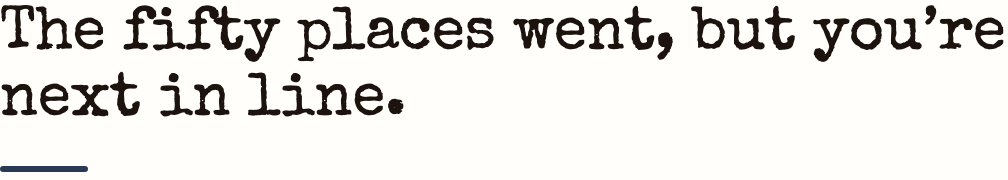
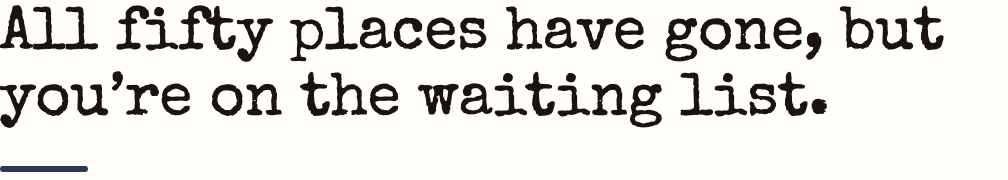
Privacy page v1: the copy addendum (waiting-list wording, the AI lead)
- Confirm email panel: "…and I'll tell you straight." → "…and I'll let you
  know."
- Waiting-list email: subject "You're on the founding writers' waiting
  list"; heading (and heading-waiting.png, regenerated, with its alt) "All
  fifty places have gone, but you're on the waiting list."; last line
  "Sorry we couldn't fit you in this time, and thank you for signing up."
- Welcome email preheader: "Your founding writer pass is inside."
- /welcome, waiting state, Nick's note first sentence: "Sorry we couldn't
  fit you in this time, and thank you for signing up." (the rest kept).
- /privacy §4 callout lead: "We only use AI for admin." (the rest kept).
- Swept the emails, /welcome and /privacy for "tell you straight", "wanting
  in", "first in line" and "next in line": every occurrence was one of the
  above. /welcome still says "first in line" for reserve No. 1 ("So close.
  You're first in line." / "First in line, in the order writers
  confirmed."): that is the writer's stored position, worded as the
  welcome brief specified, and is left. "Next in line" in the Contact
  list's next-step panel is in the app, not these pages, and is left.
- Copy locks updated (EM-1, the images-off order, W4, PRIV-3, WEL-6); the
  updated unit locks fail on 6311e4ef in the five places that changed.

Changed region(s): [[0.0, 0.0278, 1.0, 0.3611], [0.0, 0.3889, 0.8304, 0.7222]]

diff --git a/functions/src/foundingEmails.test.ts b/functions/src/foundingEmails.test.ts
@@ -45,7 +45,7 @@ const EXPECT = {
       "Thanks for putting your name down as a QueryHawk founding writer. There's just one thing left to do.",
       "Confirm my place",
       "This link works for 48 hours.",
-      "Your place isn't held until you click. There are fifty founding places and they go in the order people confirm. If the last one goes while this sits in your inbox, you'll go on the waiting list instead, and I'll tell you straight.",
+      "Your place isn't held until you click. There are fifty founding places and they go in the order people confirm. If the last one goes while this sits in your inbox, you'll go on the waiting list instead, and I'll let you know.",
       "Once you've confirmed, you'll get your founding writer pass, and your invite follows when your wave opens.",
       "Didn't ask for this? Just ignore it. Nothing happens without that click, and we won't write again.",
       /* privacy page v1: the sign-off, and the link as text under a hairline */
@@ -57,7 +57,7 @@ const EXPECT = {
   welcome: {
     email: welcome,
     subject: "You're in: founding writer No. 14",
-    preheader: "Your pass is inside. Welcome to the first fifty.",
+    preheader: "Your founding writer pass is inside.",
     strings: [
       "No. 14", "of 50",
       "That's your place confirmed.",
@@ -81,16 +81,16 @@ const EXPECT = {
   },
   waiting: {
     email: waiting,
-    subject: "You're first in line if a place opens",
+    subject: "You're on the founding writers' waiting list",
     preheader: "The fifty places went, but you're on the waiting list.",
     strings: [
       "Waiting list",
-      "The fifty places went, but you're next in line.",
+      "All fifty places have gone, but you're on the waiting list.",
       "Thanks for confirming. All fifty founding places were taken before your click came through, so you're on the waiting list, in the order people confirmed.",
       /* decision 2(b) */
       "You're on the list in the order people confirmed. If anything changes, you'll hear from me.",
       "You don't need to do anything else. Your address stays on the list, and you can take it off any time with the link below.",
-      "I'm sorry it wasn't this time, and thank you for wanting in.",
+      "Sorry we couldn't fit you in this time, and thank you for signing up.",
       "Nick", "Founder, QueryHawk",
       "This takes you off the waiting list.",
       ...FOOT,
@@ -276,7 +276,7 @@ describe("images off (Outlook's default): the alts and the text still read in or
       "Once you've confirmed", "Nick", "Founder, QueryHawk", "Didn't ask for this?", "Button not working?"]],
     welcome: [welcome, ["Founding writer pass: No. 14 of 50", "That's your place confirmed.", "Welcome aboard.",
       "Hi, I'm Nick.", "Nick Founder, QueryHawk", "What you get", "What happens next"]],
-    waiting: [waiting, ["Founding writer pass: Waiting list", "The fifty places went, but you're next in line.",
+    waiting: [waiting, ["Founding writer pass: Waiting list", "All fifty places have gone, but you're on the waiting list.",
       "Thanks for confirming.", "You're on the list in the order people confirmed.", "Nick Founder, QueryHawk"]],
   };
   for (const [name, [e, seq]] of Object.entries(ORDER)) {

diff --git a/functions/src/emailCopy.ts b/functions/src/emailCopy.ts
@@ -71,7 +71,7 @@ export const CONFIRM_EXPIRY = "This link works for 48 hours.";
 export const CONFIRM_NOT_HELD: [string, string] = [
   "Your place isn't held until you click.",
   " There are fifty founding places and they go in the order people confirm. If the last one goes " +
-  "while this sits in your inbox, you'll go on the waiting list instead, and I'll tell you straight.",
+  "while this sits in your inbox, you'll go on the waiting list instead, and I'll let you know.",
 ];
 export const CONFIRM_NEXT =
   "Once you've confirmed, you'll get your founding writer pass, and your invite follows when your wave opens.";
@@ -85,7 +85,7 @@ export const CONFIRM_NOT_YOU =
 /** The writer's stored founding number — never rounded and never estimated. Unpadded. */
 export const welcomeSubject = (foundingNumber: number): string =>
   `You're in: founding writer No. ${foundingNumber}`;
-export const WELCOME_PREHEADER = "Your pass is inside. Welcome to the first fifty.";
+export const WELCOME_PREHEADER = "Your founding writer pass is inside.";
 export const WELCOME_HEADING = "That's your place confirmed.";
 export const WELCOME_LEAD =
   "Welcome aboard. You're one of the first fifty writers to use QueryHawk, and this is your pass.";
@@ -118,10 +118,10 @@ export const WELCOME_NEXT: readonly string[] = [
 
 /* ══════════════ 3 · Waiting list ══════════════ */
 
-export const WAITING_SUBJECT = "You're first in line if a place opens";
+export const WAITING_SUBJECT = "You're on the founding writers' waiting list";
 export const WAITING_PREHEADER = "The fifty places went, but you're on the waiting list.";
 export const WAITING_PASS = "Waiting list";
-export const WAITING_HEADING = "The fifty places went, but you're next in line.";
+export const WAITING_HEADING = "All fifty places have gone, but you're on the waiting list.";
 export const WAITING_LEAD =
   "Thanks for confirming. All fifty founding places were taken before your click came through, so " +
   "you're on the waiting list, in the order people confirmed.";
@@ -133,4 +133,4 @@ export const WAITING_NOTE: [string, string] = [
 export const WAITING_NOTHING_TO_DO =
   "You don't need to do anything else. Your address stays on the list, and you can take it off any " +
   "time with the link below.";
-export const WAITING_SORRY = "I'm sorry it wasn't this time, and thank you for wanting in.";
+export const WAITING_SORRY = "Sorry we couldn't fit you in this time, and thank you for signing up.";

diff --git a/tests/e2e/privacyPage.public.ts b/tests/e2e/privacyPage.public.ts
@@ -21,7 +21,7 @@ const STRINGS = [
   "AI only does the admin. It never writes for you, and nothing you store trains it.",
   "QueryHawk is run by Nick, an aspiring writer in London, UK, with a background in using data to tell stories (\"we\", \"us\"). We are the data controller for the personal data described in this policy, and you can reach us at hello@queryhawk.net.",
   "in the London (europe-west2) region.",
-  "AI does the admin, never the art. QueryHawk uses AI models only for menial, behind-the-scenes tasks: reading and sorting information you give it, so you don't have to retype it. It never writes your query letters, synopses or pages, never edits your work, and never creates or designs anything for you.",
+  "We only use AI for admin. QueryHawk uses AI models only for menial, behind-the-scenes tasks: reading and sorting information you give it, so you don't have to retype it. It never writes your query letters, synopses or pages, never edits your work, and never creates or designs anything for you.",
   "AI is used only when you run one of these features, never in the background:",
   "Smart Import — reads the spreadsheet or notes you upload and turns them into your agents and queries.",
   "Smart Email Drop — reads an email you paste in and suggests the updates to make. Nothing changes until you accept them.",
@@ -103,7 +103,7 @@ for (const vp of SIZES) {
       expect(await page.locator(".mk-pv-short li").count(), "four ticks").toBe(4);
       expect(await page.locator(".mk-pv-callout--navy").first().evaluate((e) => e.closest("section")!.id), "the navy callout opens the AI section").toBe("priv-s4");
       const lead = await page.locator(".mk-pv-callout--navy strong").first();
-      expect(await lead.textContent()).toBe("AI does the admin, never the art.");
+      expect(await lead.textContent()).toBe("We only use AI for admin.");
       expect(await lead.evaluate((e) => getComputedStyle(e).color), "the lead phrase is blush").toBe("rgb(232, 180, 163)");
       const whole = await page.evaluate(() => document.body.innerText + document.title + Array.from(document.querySelectorAll("meta")).map((m) => m.content).join(" "));
       expect(whole, "no surname anywhere").not.toMatch(/Physick/i);

diff --git a/src/marketing/welcomePage.test.tsx b/src/marketing/welcomePage.test.tsx
@@ -128,7 +128,7 @@ describe("W4 · what each state draws and leaves out", () => {
   it("waiting (2(b)): its own note, no perks, no get-ready, and no 'If a place frees up' step", () => {
     expect(PLACES_OFFERED_ON).toBe(false);
     const t = text(view("waiting"));
-    expect(t).toContain("I'm sorry we couldn't hold a place for you this time");
+    expect(t).toContain("Sorry we couldn't fit you in this time, and thank you for signing up. You're confirmed and in the queue.");
     expect(t).toContain("Third in line, in the order writers confirmed.");
     expect(t).not.toContain(FOUNDING_GETS[0]);
     expect(t).not.toContain("Get ready for day one");

diff --git a/src/marketing/welcomeCopy.ts b/src/marketing/welcomeCopy.ts
@@ -123,7 +123,7 @@ export const NOTE: readonly string[] = [
   "Very best of luck with your campaign, and thank you for being part of the journey. We'll speak soon.",
 ];
 export const NOTE_WAITING: readonly string[] = [
-  "I'm sorry we couldn't hold a place for you this time, and thank you for wanting in. You're confirmed and in the queue" +
+  "Sorry we couldn't fit you in this time, and thank you for signing up. You're confirmed and in the queue" +
     (PLACES_OFFERED_ON ? ", so if a place frees up, it's yours to take." : "."),
   "In the meantime I'd still love to hear from you: reply to my email any time. It comes straight to me.",
 ];

diff --git a/src/marketing/legalCopy.ts b/src/marketing/legalCopy.ts
@@ -150,7 +150,7 @@ export const LEGAL_DOCUMENTS: Record<LegalDocumentKey, LegalDocument> = {
         heading: "How we use AI",
         blocks: [
           navyCallout(
-            { b: "AI does the admin, never the art." },
+            { b: "We only use AI for admin." },
             " QueryHawk uses AI models only for menial, behind-the-scenes tasks: reading and sorting " +
             "information you give it, so you don't have to retype it. It never writes your query " +
             "letters, synopses or pages, never edits your work, and never creates or designs anything for you.",

diff --git a/tests/e2e/welcomePage.public.ts b/tests/e2e/welcomePage.public.ts
@@ -223,7 +223,7 @@ for (const vp of SIZES) {
         expect(body, `waiting under 2(b) does not say ${banned}`).not.toMatch(banned);
       }
       expect(body).toContain("in the order people confirmed.");
-      expect(body).toContain("I'm sorry we couldn't hold a place for you this time, and thank you for wanting in. You're confirmed and in the queue.");
+      expect(body).toContain("Sorry we couldn't fit you in this time, and thank you for signing up. You're confirmed and in the queue.");
       expect(body).toContain("Third in line, in the order writers confirmed.");
     });
   });

diff --git a/functions/src/emailImageManifest.ts b/functions/src/emailImageManifest.ts
@@ -387,10 +387,10 @@ export const EMAIL_IMAGES: Record<string, EmailImage> = {
   },
   "heading-waiting": {
     "path": "/images/email/heading-waiting.png",
-    "version": "3d6e6268",
+    "version": "18f4ccac",
     "width": 504,
     "height": 90,
-    "alt": "The fifty places went, but you're next in line."
+    "alt": "All fifty places have gone, but you're on the waiting list."
   },
   "signature-nick": {
     "path": "/images/email/signature-nick.png",
